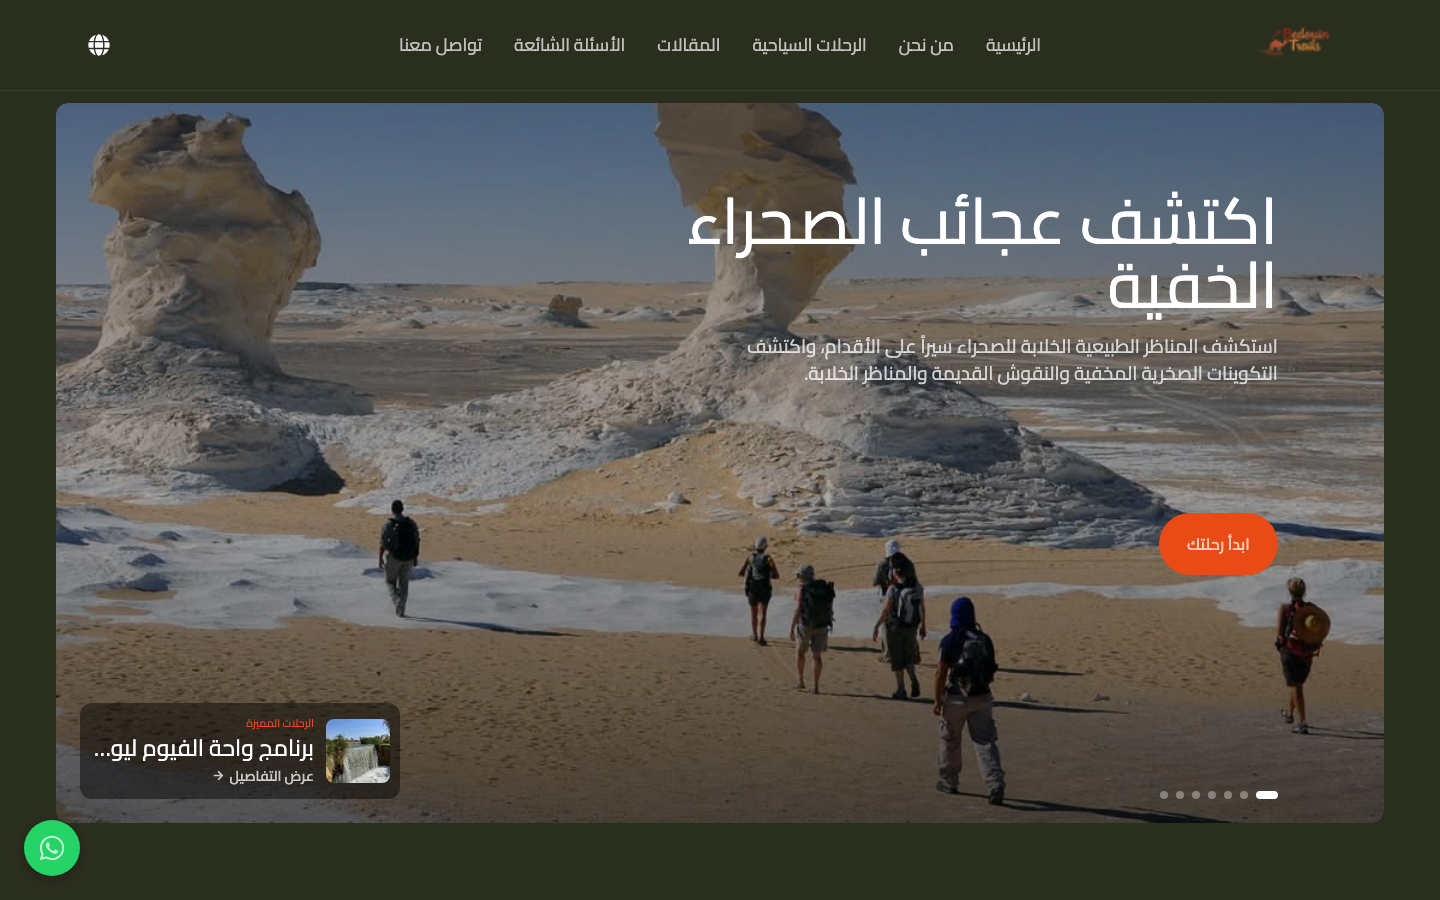
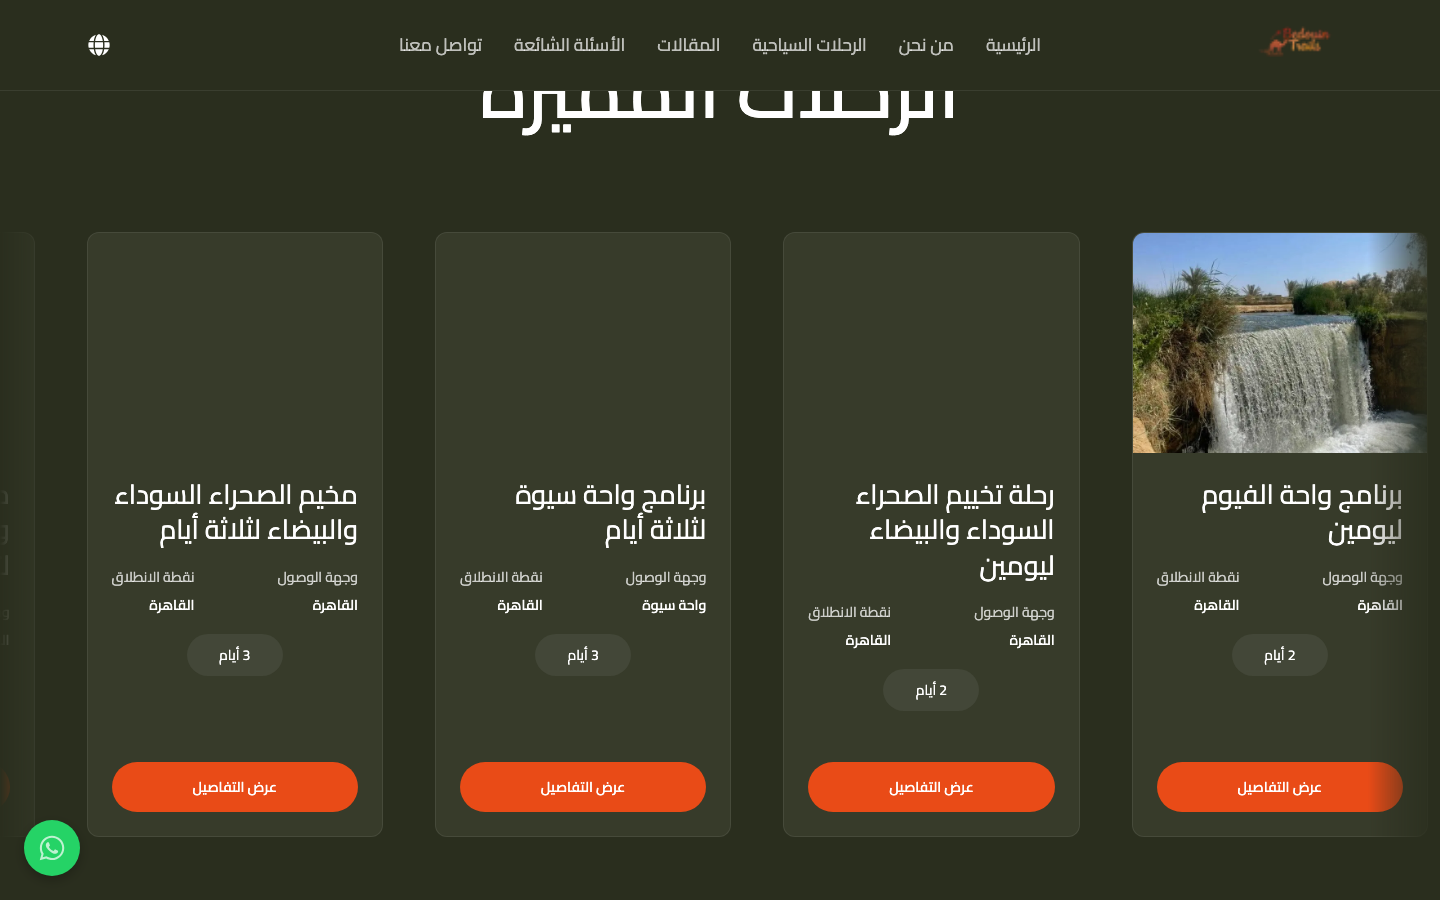
Update Bedouin Trails: improve results metrics and replace image1 with tours section

diff --git a/lib/projects.ts b/lib/projects.ts
@@ -389,9 +389,9 @@ export const PROJECTS: Project[] = [
       "/uploads/bedouin-trails-5.png",
     ],
     results: [
-      { metric: "Page 1", detail: "Rankings for core adventure travel terms" },
-      { metric: "Int'l", detail: "International traveler traffic growth" },
-      { metric: "Direct", detail: "Bookings without aggregator commissions" },
+      { metric: "3x", detail: "Organic traffic growth within 4 months" },
+      { metric: "15+", detail: "Keywords ranking on page 1 of Google" },
+      { metric: "0%", detail: "Aggregator commission — all bookings direct" },
     ],
   },
   {
